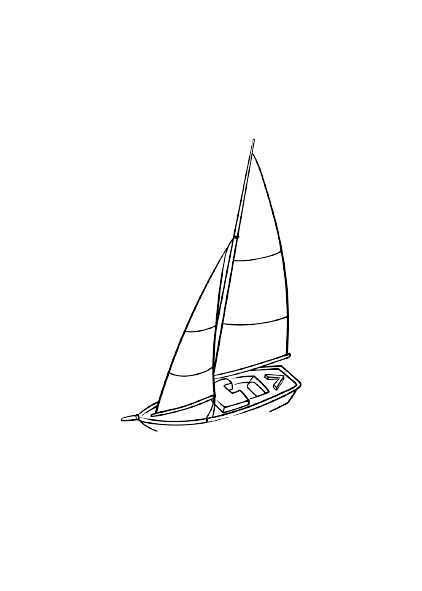
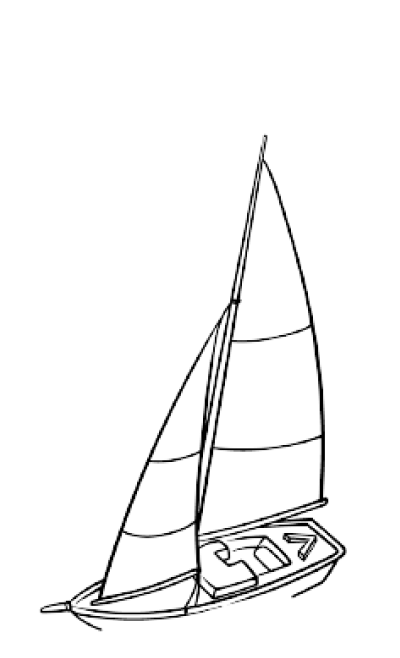
set up miscellaneous page

Changed region(s): [[0.09, 0.2132, 0.87, 0.9746]]

diff --git a/misc.css b/misc.css
@@ -1,0 +1,159 @@
+body {
+    margin: 0;
+    padding: 0;
+    border: 0;
+    /* overflow: hidden; */
+      background: linear-gradient(
+        to right,
+        rgb(238, 216, 208) 0%,
+        rgb(241, 236, 234) 50%,
+        rgb(191, 201, 236) 100%
+      );
+  }
+
+  ul{
+    display:flex;
+    justify-content:center;
+    align-items:center;
+    margin-left: 60%;
+    padding-top: 3%;
+    line-height: 2;
+  }
+
+  li {
+    font-size:25px;
+    list-style-type:none; 
+    padding:0 15px;
+    font-family: Canela-Thin;
+  }
+
+  a {
+    text-decoration: none;
+    color: black;
+    cursor: pointer;
+  }
+  
+  .link {
+    position: relative;
+    transition: -webkit-clip-path 275ms ease;
+    transition: clip-path 275ms ease;
+    transition: clip-path 275ms ease, -webkit-clip-path 275ms ease;
+  }
+  .link:hover span::before, .link:focus span::before {
+    -webkit-clip-path: polygon(0 0, 100% 0, 100% 100%, 0 100%);
+            clip-path: polygon(0 0, 100% 0, 100% 100%, 0 100%);
+  }
+  .link span {
+    position: relative;
+    display: inline-block;
+    color: black;
+  }
+  .link span::before {
+    position: absolute;
+    content: attr(data-content);
+    text-decoration: underline;
+    -webkit-clip-path: polygon(0 0, 0 0, 0% 100%, 0 100%);
+            clip-path: polygon(0 0, 0 0, 0% 100%, 0 100%);
+    transition: -webkit-clip-path 275ms ease;
+    transition: clip-path 275ms ease;
+    transition: clip-path 275ms ease, -webkit-clip-path 275ms ease;
+    color: rgb(224, 109, 80);
+  }
+  
+  span.wavy::before {
+    -webkit-text-decoration-style: wavy;
+            text-decoration-style: wavy;
+  }
+
+  main {
+    padding: 2em;
+    height: 200vh;
+    z-index: -2;
+    font-family: Canela;
+  }
+  main h2 {
+    margin-top: -7%;
+  }
+
+  .logo-style {
+    color: black
+  }
+
+  .logo-style:hover{
+    text-decoration: none;
+    color: black
+  }
+
+  .title {
+    font-size: 70px;
+    font-family: Canela;
+    text-align: center;
+    margin-top: -8%;
+  }
+
+  .title-img{
+    transform: rotate(10deg);
+  }
+
+  #base-container {
+    position: relative;
+    font: 24px sans-serif;
+    overflow: hidden;
+  }
+
+  #blurry-background {
+    position: absolute;
+    width: 50%;
+    top: 20%;
+    left: 20%;
+    z-index: -1;
+    filter: blur(6em);
+    display: none;
+  }
+  
+  .circle {
+    position: absolute;
+    width: 15em;
+    height: 15em;
+    border-radius: 50%;
+    left: calc(60% - 5em);
+    top: calc(50% - 5em);
+  }
+  
+  .red {
+    background-color: rgb(204, 84, 40);
+    animation: redOrbit 25s linear infinite;
+  }
+  
+  .blue {
+    background-color: blue;
+    animation: blueOrbit 25s linear infinite;
+  }
+  
+  @keyframes redOrbit {
+      from { transform: rotate(0deg) translateX(150%); }
+      to { transform: rotate(360deg) translateX(150%); }
+  }
+  
+  @keyframes blueOrbit {
+      from { transform: rotate(0deg) translateX(-150%); }
+      to { transform: rotate(360deg) translateX(-150%); }
+  }
+
+  @font-face {
+    font-family: 'Canela';
+    src: url("CanelaFont/Canela-ThinItalic-Trial.otf") format("opentype");
+    font-weight: 100;
+}
+
+@font-face {
+  font-family: 'Canela-Thin';
+  src: url("CanelaFont/Canela-Thin-Trial.otf") format("opentype");
+  font-weight: 100;
+}
+
+@font-face {
+  font-family: 'Canela-Med';
+  src: url("CanelaFont/Canela-Regular-Trial.otf") format("opentype");
+  font-weight: 50;
+}

diff --git a/misc.html b/misc.html
@@ -12,7 +12,7 @@
     />
 
     <!-- Link to CSS -->
-    <link rel="stylesheet" href="about.css" />
+    <link rel="stylesheet" href="misc.css" />
 
     <link rel="icon" href="static/cloudsvg.png" />
 
@@ -39,11 +39,11 @@
                 <main>
                   <h2 style="font-size:25px; text-decoration: none;"><a class="logo-style" href="home.html">Dina Orucevic</a></h2>
 
-                  <h1 class="title">A &nbsp &nbsp &nbsp &nbsp &nbsp &nbsp Me
-                  <img style="margin-left: -20%;" src="static/boat.png" width="120px">
+                  <h1 class="title">Mis &nbsp &nbsp &nbsp &nbsp &nbsp aneous
+                  <img  class="title-img" style="margin-left: -25%;" src="static/cell.png" width="120px" >
                   </h1>
 
-                  <h2 style="font-family: Canela-Med; margin-top: 0" > — how do you do? 
+                  <!-- <h2 style="font-family: Canela-Med;" > — how do you do? 
                   </h2>
 
                   <p style="padding-right: 5%;">
@@ -52,37 +52,7 @@
                     It has survived not only five centuries, but also the leap into electronic typesetting, remaining essentially unchanged. It was popularised in the 1960s with the release of Letraset sheets containing Lorem Ipsum passages. <br><br>
                     
                     More recently with desktop publishing software like Aldus PageMaker including versions of Lorem Ipsum.
-                  </p>
-
-                  <!-- connect socials flexbox -->
-                  <div class="connect">
-                    <a href="https://github.com/dina-o"><img src="static/github.png" alt=""  /></a>
-                    <a href="mailto: dina.oorucevic@gmail.com"><img src="static/email.png" alt=""  /></a>
-                    <a href="https://www.linkedin.com/in/dinaorucevic/"><img src="static/linkedin.png" alt=""  /></a>
-                    <a href="https://devpost.com/dinacreates"><img src="static/devpost.png" alt=""  /></a>
-                   </div>
-
-                   <hr style="margin-top: 10%;">
-
-                   <h2 style="font-family: Canela-Med; margin-top: 5%;" > — my current favourites </h2>
-
-                      <div class="bubbles">
-                          <div class="square book">
-                              <span></span>
-                              <span></span>
-                              <span></span>
-                          </div>
-                          <div class="square superpower">
-                            <span></span>
-                            <span></span>
-                            <span></span>
-                        </div>
-                        <div class="square movie">
-                          <span></span>
-                          <span></span>
-                          <span></span>
-                      </div>
-                        </div>
+                  </p> -->
 
                         <!-- footer -->
                       <footer style="position: absolute; bottom:0; height: 5rem; width: 90%; font-size: 18px; display: flex; justify-content: space-between;">

diff --git a/home.html b/home.html
@@ -33,7 +33,7 @@
                 <ul>
                   <li><a class="link" href="about.html"><span class="wavy" data-content="about">about</span></a></li>
                   <li><a class="link" href="#"><span class="wavy" data-content="work">work</span></a></li>
-                  <li><a class="link" href="#"><span class="wavy" data-content="misc.">misc.</span></a></li>
+                  <li><a class="link" href="misc.html"><span class="wavy" data-content="misc.">misc.</span></a></li>
               </ul>
               
               
